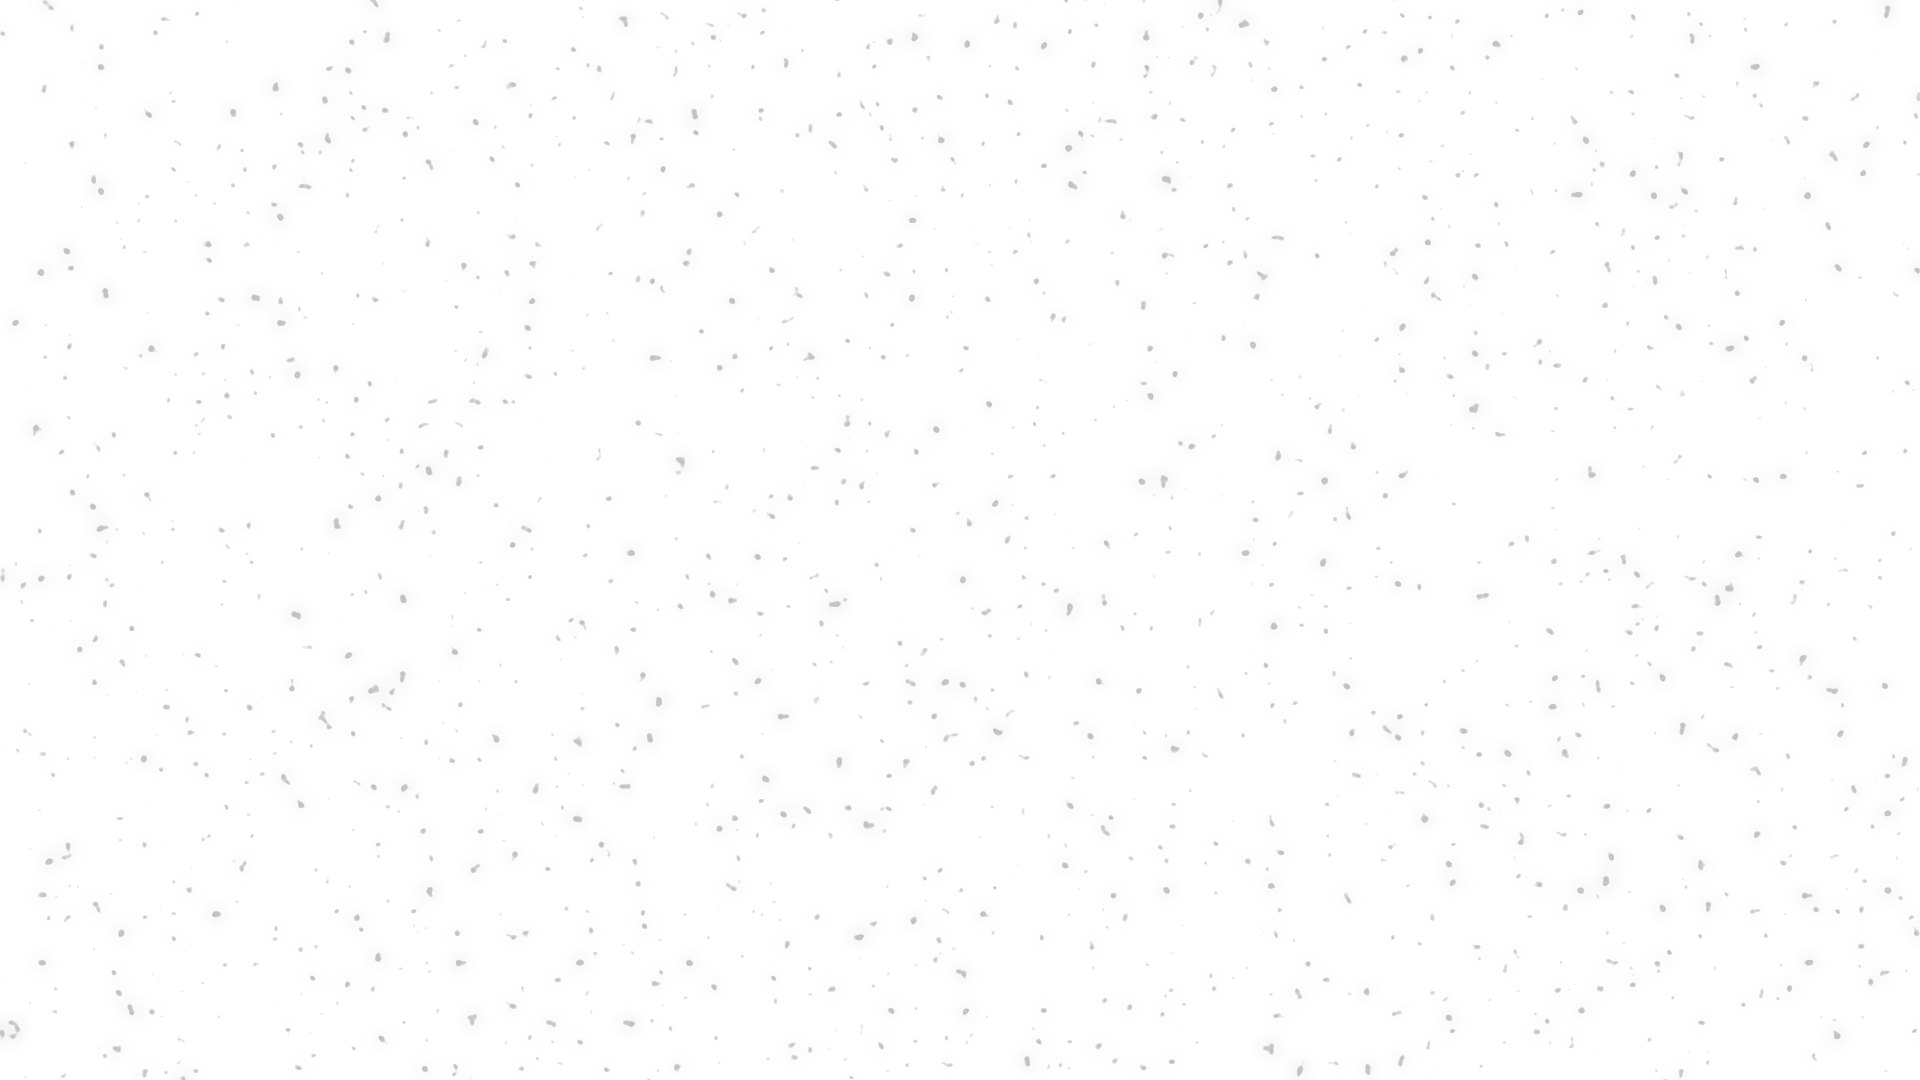
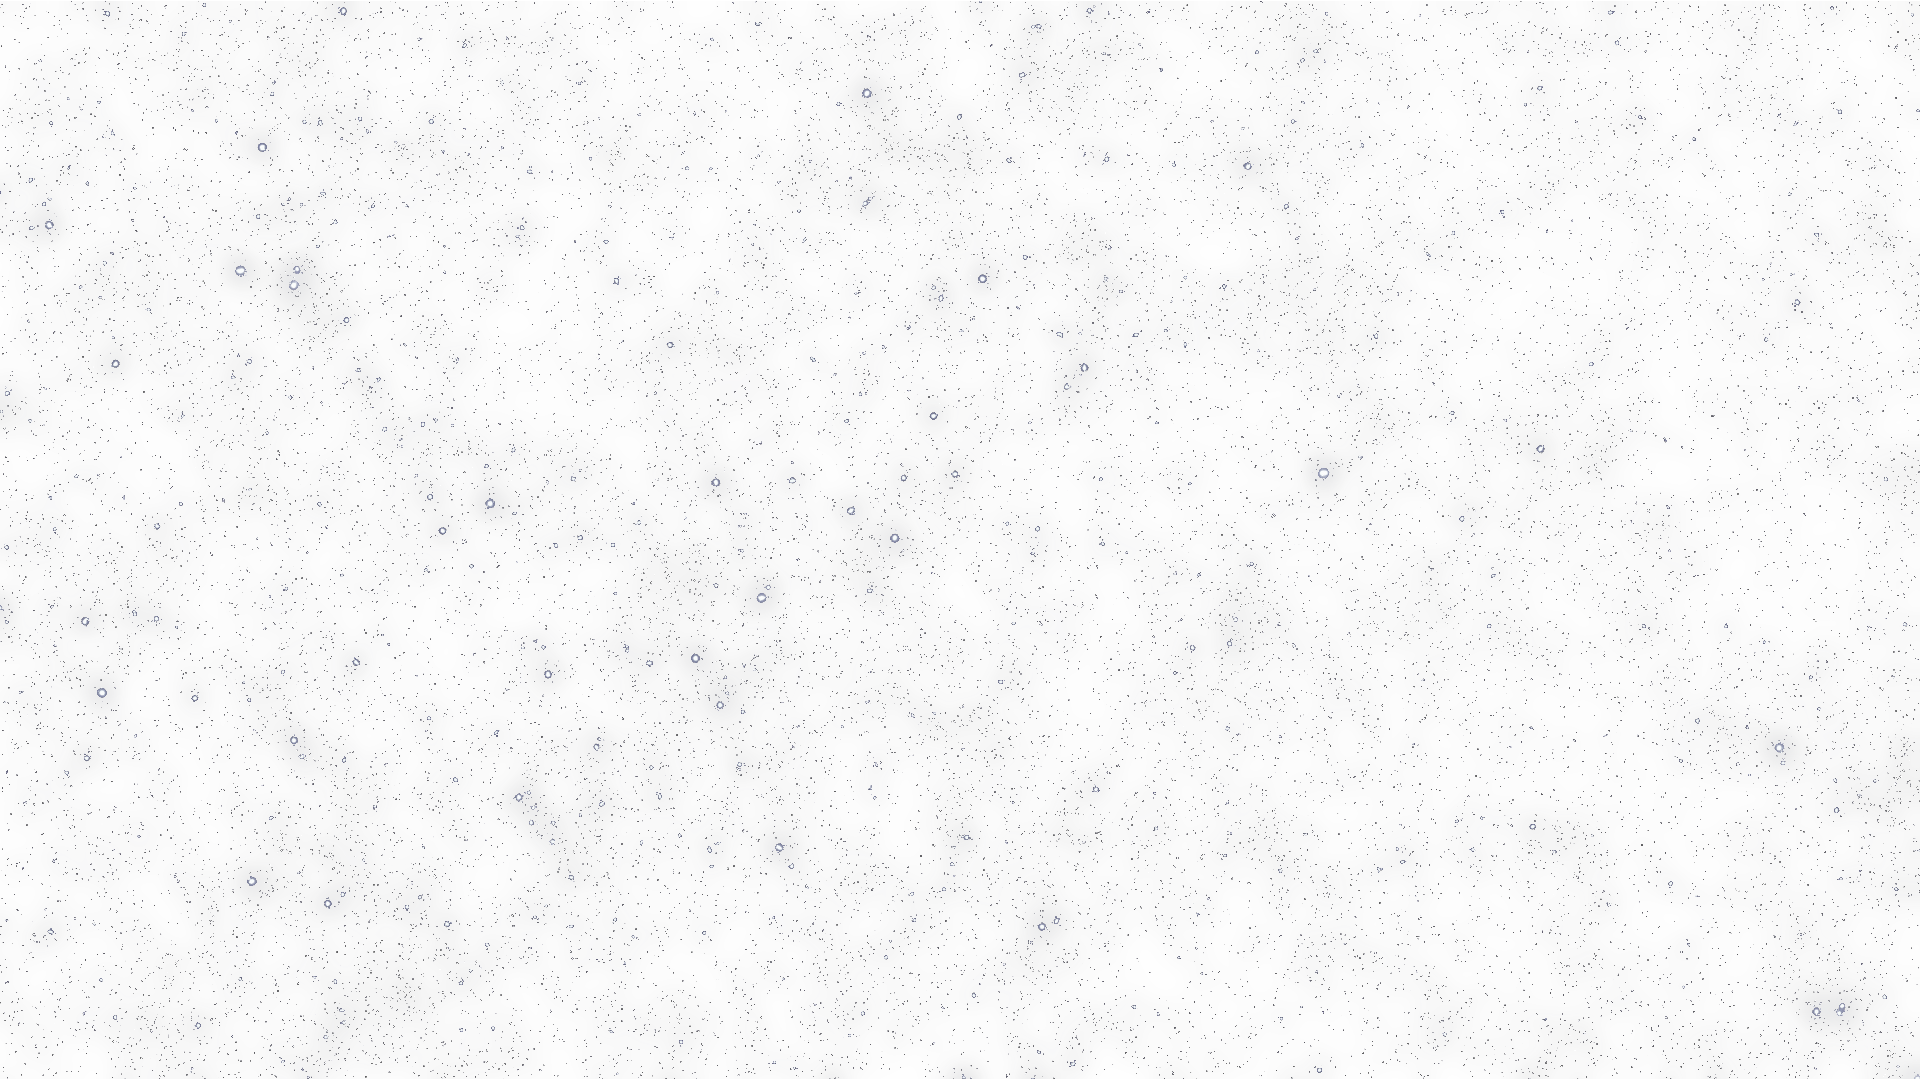
Ajout des nouveaux background + amélioration des placeholders

Changed region(s): [[0.125, 0.2444, 0.1562, 0.275]]

diff --git a/style.css b/style.css
@@ -414,9 +414,19 @@ h4 {
     transition: 0.2s opacity linear;
 }
 
-.placeholder:hover {
-    margin-top: -500em;
-    opacity: 0;
+.zoom-pch
+{
+    position: fixed;
+    
+    opacity: 1;
+
+    width: 25em;
+    height: 25em;
+
+    left: calc(50% - 25em);
+    right: calc(50% - 25em);
+
+    margin: 0;
 }
 
 
